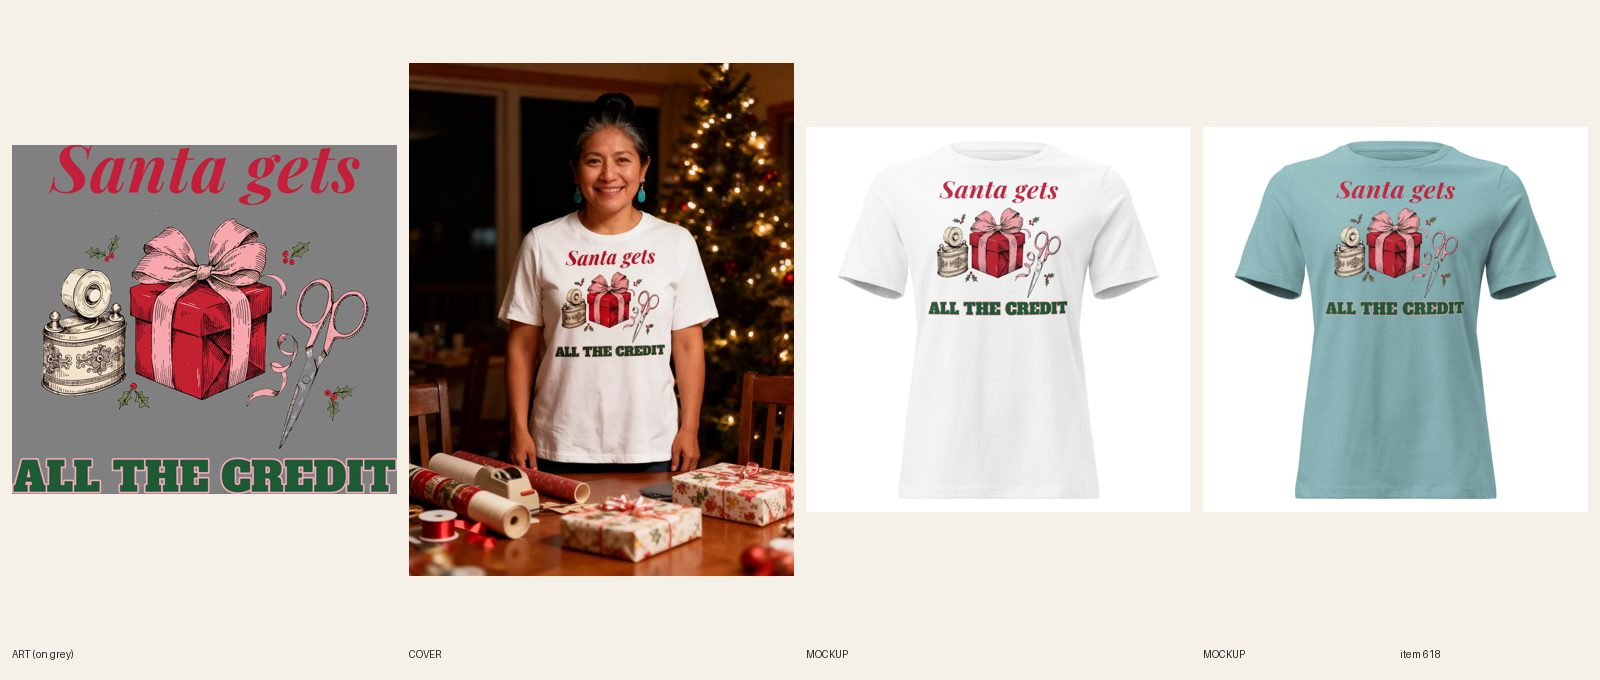
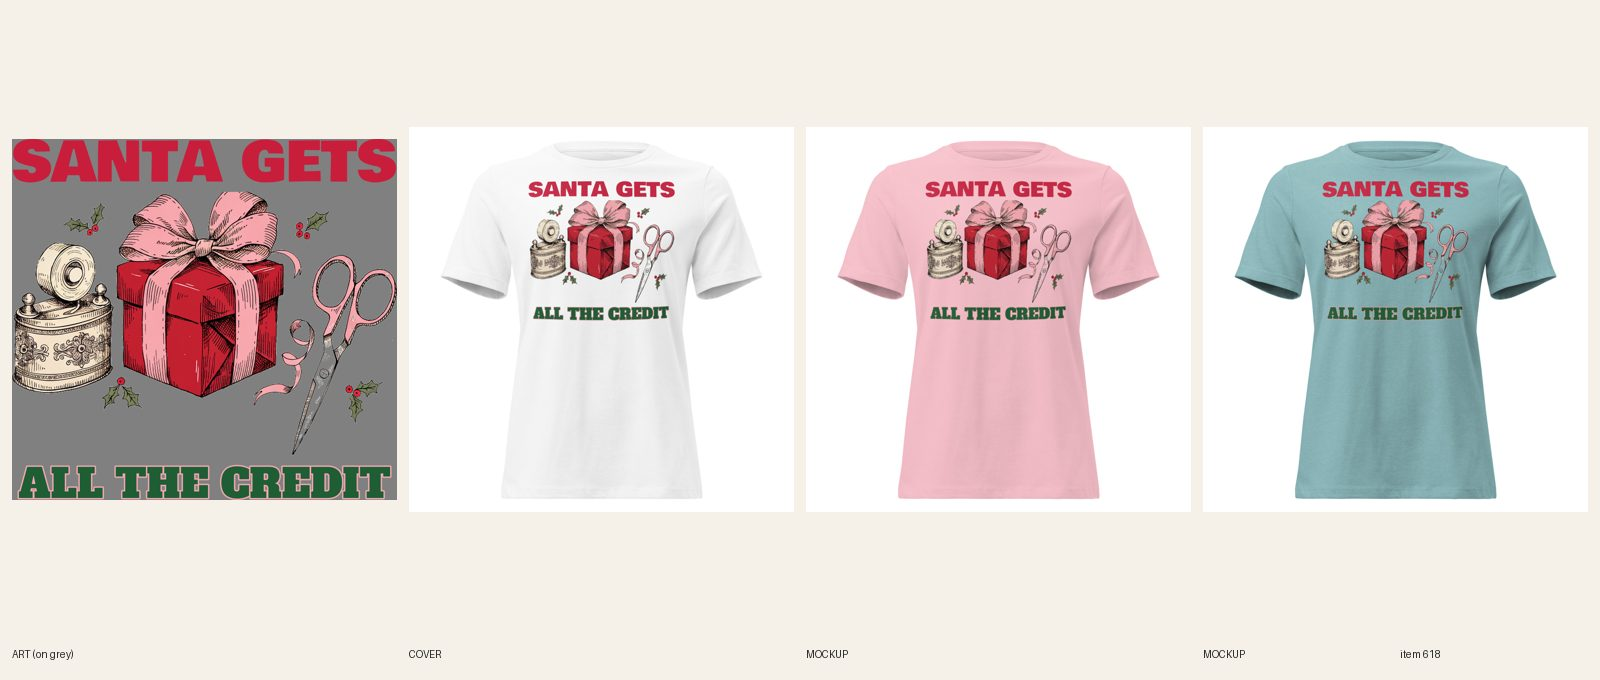
[A] review 618 Santa Gets All the Credit tee (type redo)
Claude-Session: https://claude.ai/code/session_01VP4Zh8YfcGtoMwCZPoM5Mm

diff --git a/designs/a618/make2.py b/designs/a618/make2.py
@@ -1,0 +1,28 @@
+from PIL import Image, ImageDraw, ImageFont
+src=Image.open('designs/a618/print.png').convert('RGBA')
+cat=src.crop((0,700,src.width,2700)); cat=cat.crop(cat.getbbox())
+RED=(200,30,60,255); GREEN=(31,94,52,255); PINK=(244,167,178,255)
+def line(text,font,size,maxw,fill,stroke=0,sfill=None,track=0.0):
+    while True:
+        f=ImageFont.truetype('designs/fonts/'+font,size)
+        adv=[f.getlength(c) for c in text]; t=int(size*track)
+        tot=int(sum(adv)+t*(len(text)-1))
+        if tot<=maxw: break
+        size=int(size*0.97)
+    asc,desc=f.getmetrics()
+    im=Image.new('RGBA',(tot+300,asc+desc+200),(0,0,0,0)); d=ImageDraw.Draw(im); x=150
+    for c,a in zip(text,adv):
+        d.text((x,100),c,font=f,fill=fill,stroke_width=stroke,stroke_fill=sfill); x+=a+t
+    return im.crop(im.getbbox())
+W=cat.width
+h1=line('SANTA GETS','BowlbyOne-Regular.ttf',900,W,RED)
+h2=line('ALL THE CREDIT','AlfaSlabOne-Regular.ttf',900,W-40,GREEN,10,PINK)
+print(cat.size,h1.size,h2.size)
+gap=70
+H=h1.height+gap+cat.height+gap+h2.height
+out=Image.new('RGBA',(W,H),(0,0,0,0)); y=0
+out.alpha_composite(h1,((W-h1.width)//2,0)); y=h1.height+gap
+out.alpha_composite(cat,(0,y)); y+=cat.height+gap
+out.alpha_composite(h2,((W-h2.width)//2,y))
+out.save('designs/a618/print2.png'); print(out.size)
+bg=Image.new('RGBA',out.size,(40,40,40,255)); bg.alpha_composite(out); bg.convert('RGB').resize((600,int(600*H/W))).save('designs/a618/prev2.png')

diff --git a/docs/intake-log.md b/docs/intake-log.md
@@ -1,9 +1,9 @@
 2026-10-19 20:25 UTC — [D] Director run (RESUMED). Inbox: nothing new since the 17:55 note. Reviewed 7 new type-redo sheets (#556 #521 #478 #522 #562 #525 #527), all at the new type bar side by side with 493 and 483/479. LIVE 6 (cap): #560 #614 #625 #512 #460 (held from last run) and #556; #614 set ACTIVE + Online Store, Headless, Google & YouTube, the rest already ACTIVE. Audit --handle PASS 0 warn on all 6. Shopify copy fix: #556 Story still described the old lowercase script line. Approved and held at REVIEW: #521 #478 #522 #562 #525 #527 and the 31 add-ons. No REDO. READY: A 12, B 12, C 12 (E 5), so no new briefs. No Telegram (midday digest went at 12:20; nothing needs Sam). Monday check already done today. Lock released.
 RUNNING lane E since 2026-10-19 20:16 UTC
 2026-10-19 20:12 UTC — [B] Builder run: redid #548 National Park crewneck (ported #624 THE VIEW BETTER / BE WORTH IT. print, FW 1650, 12/12 relinked, 2 fronts replaced in place, copy updated, plain product shot). REVIEW. fal $0. 1 redo per run cap reached. Lock released.
+2026-10-19 20:22 UTC — [A] Builder run: redid #618 Women's Santa Gets All the Credit tee (type only: SANTA GETS in heavy Bowlby One cherry red + ALL THE CREDIT in Alfa Slab pine green, both at full art width, same art, FW 1500 TOP 75, file 1089801142, 36/36 relinked, 6 fronts replaced in place, copy updated, plain product shot). REVIEW. fal $0. Lock released.
 RUNNING lane C since 2026-10-19 19:52 UTC
 2026-10-19 20:07 UTC — [C] Builder run: redid #527 Women's Clocked It hoodie (type only: ported #478's Bowlby One cream CLOCKED IT. + Anton SAID NOTHING. stacked lockup, same cat linework, FW 1500 TOP 20, file 1089805339, 12/12 relinked, 2 fronts replaced in place, copy updated, plain product shot). REVIEW. fal $0. Lock released.
-RUNNING lane A since 2026-10-19 20:00 UTC
 2026-10-19 20:01 UTC — [C] Builder run: redid #525 Women's I Brought You a Sock heavyweight hoodie (type only: ported #512's approved Bevan rust/brown stacked lockup + navy YOU'RE WELCOME. capitals, same art, FW 1650 TOP 20, file 1089796245, 14/14 relinked, 2 fronts replaced in place, copy updated, plain product shot). REVIEW. fal $0. Lock released.
 2026-10-19 19:52 UTC — [B] Builder run: redid #522 Gigi crewneck (type only: Bevan hot-pink GIGI full width + Anton navy BECAUSE GRANDMA / SOUNDED OLD., same art, FW 1650, file 1089786616, 12/12 resynced, 2 fronts replaced in place, copy updated, plain product shot). REVIEW. fal $0. Lock released.
 2026-10-19 19:44 UTC — [H] Helper run: Telegram inbox empty (getUpdates returned 0 updates; no pause, resume or TikTok links; nothing to consume). Audit (604 products): 0 errors, 30 warnings left alone (polish); no meta, SEO, collection or price errors to fix; announcement bar unchanged. Category check: 0 products without a category (Shopify query empty, no mutation). Site freshness: unisex-christmas-we-said-no-gifts-graphic-tee, mens-firefighter-yes-one-cat-once-hoodie, womens-nana-mom-said-no-thats-cute-crewneck-sweatshirt all 200. Stuck work: none (#522 BUILDING since 19:40 under 3 hours; lane B lock 19:40 and lane E lock 19:15 both under 2 hours). Daily summary not due (sent 16:05). Lock released.

diff --git a/docs/pipeline/618-christmas-tee-santa-gets-all-the-credit.md b/docs/pipeline/618-christmas-tee-santa-gets-all-the-credit.md
@@ -1,4 +1,4 @@
-status: BUILDING [A] 2026-10-19 20:00
+status: REVIEW
 lane: A
 type: new
 id: 618
@@ -33,3 +33,4 @@ kd: 6
 - 2026-10-18 16:44 UTC builder [A]: cover done on fal try 3 (counts as the fal-swap try; $0.18 cover total): woman, hair in a bun, empty hands, no mug; all words read right, nothing over print, registry #958 USED, covers.ts added. Review sheet made. Waiting on sync to reach 36/36.
 - 2026-10-18 16:51 UTC builder [A]: REVIEW. Sync 482796237 verified 36/36 on default file 1088965103 (FW 1500 TOP 75), back logo 1080398177. FAQs 5 at 45-51 words, order-by Dec 8. Primary 'funny christmas tee' (3 uses max: SEO title, line one, meta); 'christmas gifts for mom' once. Light file: none needed (no cream ink). Ink named in copy from mockups: red, pink, pine green. Art 200%: no pure white outside planned cream tape. Every color has its own mockup; design-crops and variant-photo-audit need the product public (run after publish). Cover: woman, hair bun, hands empty, all letters clear at 200%, chest clean (AI photo, no composite).
 - 2026-10-19 09:16 UTC director: REDO (grade B, type only; the line stays against the quality-reset bar, docs/backlog/quality-reset.md; product stays DRAFT). 1. Quality-reset bar (type): 'Santa gets' is a book-serif italic at about 80% width over a floating art group, so the top reads typeset (R3.7.6) and the art floats between two bars. Set 'SANTA GETS' in the same heavy display weight as ALL THE CREDIT (or arch it over the gift) so both lines are bold and the headline fills at least 90% of the art width. 2. R7.7: re-link all variants, remake mockups and docs/review/618.jpg; cover waits on Sam's fal decision. Build it only when the reset allows lane work again.
+- 2026-10-19 20:10 UTC builder [A]: REDO type-only done (director grade B). Same art (cluster cropped from designs/a618/print.png); new print designs/a618/make2.py: SANTA GETS in Bowlby One cherry red, heavy, full art width, + ALL THE CREDIT in Alfa Slab One pine green with pink keyline, both 100% of the art width; print 2880x2703, FW 1500 TOP 75, Printful file 1089801142, back logo 1080398177 kept. Light colors take red/pine fills (no cream), so no light file needed (R5.3.8). Relinked 36/36 on 1089801142. 6 fronts replaced in place (fileUpdate); phone-size read ok on White, Pink, Blue Lagoon (pink bow softer on Pink but headline clear). Copy: Story lettering sentence updated; line one and FAQs (5, Dec 8) kept, no R8.3 opener. Plain product shot (handle added to retired-covers.json). fal $0. Sheet docs/review/618.jpg.
